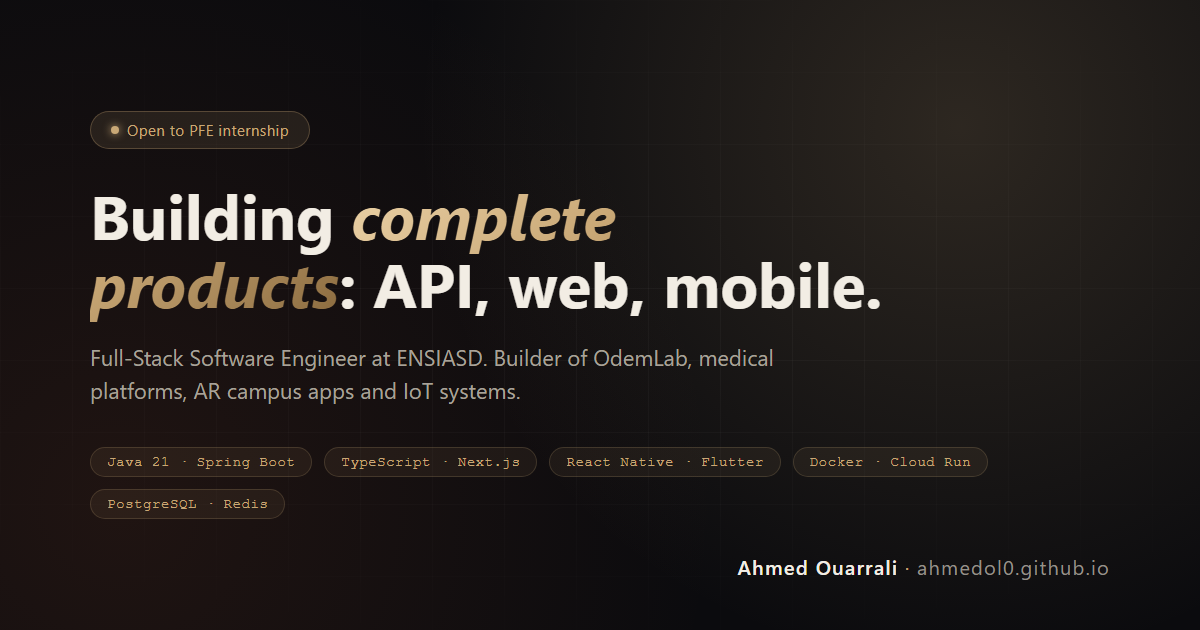
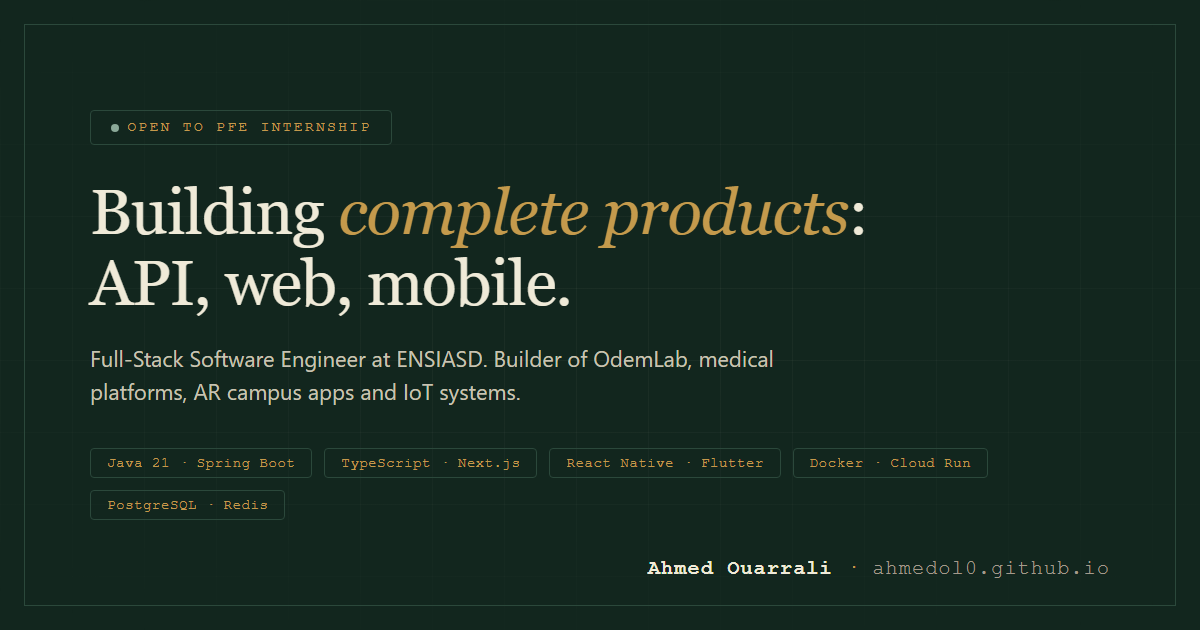
refine(portfolio): walkthrough footnote, inline form errors, dossier OG image
Work: demo links open in a new tab (noopener); per-card walkthrough notes consolidated into one section footnote (12 repetitive strings removed). Experience: stack tags replace duplicated where-lines. Contact: inline per-field errors with browser-localized messages, response-time hint above submit, Sending microcopy, spinner hidden from AT, message maxlength. Docs/OG: README corrected (React 19, EN/FR, asset inventory); og-image rethemed to dossier and regenerated. CSS: dead rules pruned, tag hover scoped to real controls.

diff --git a/src/i18n-data.ts b/src/i18n-data.ts
@@ -8,7 +8,7 @@ export const LANGS: { code: Lang; label: string; aria: string }[] = [
 
 export type ProjectT = {
   title: string; year: string; kind: string; heading: string; lead: string;
-  description: string; result?: string; note?: string; linkLabel?: string; linkHref?: string;
+  description: string; result?: string; linkLabel?: string; linkHref?: string;
 };
 
 export function thumbTitle(p: ProjectT): { pre: string; em: string; post: string } {
@@ -17,7 +17,7 @@ export function thumbTitle(p: ProjectT): { pre: string; em: string; post: string
   return { pre: p.heading.slice(0, i), em: p.lead, post: p.heading.slice(i + 1) };
 }
 
-export type JobT = { when: string; title: string; org: string; where: string; points: string[]; tags: string[] };
+export type JobT = { when: string; title: string; org: string; where?: string; points: string[]; tags: string[] };
 export type EduT = { years: string; title: string; school: string; desc: string };
 
 export type Capability = { title: string; desc: string; details: string };
@@ -32,7 +32,7 @@ export type Dict = {
   whatIDo: { kicker: string; title: string; sub: string; showDetails: string; showLess: string; capabilities: Capability[] };
   howIWork: { kicker: string; title: string; sub: string; steps: ProcessStep[] };
   filters: { all: string; web: string; mobile: string; backend: string; ai: string; iot: string };
-  work: { kicker: string; title: string; sub: string; showLess: string; showFewer: string; filterCount: string; projects: ProjectT[] };
+  work: { kicker: string; title: string; sub: string; showLess: string; showFewer: string; filterCount: string; walkthroughNote: string; projects: ProjectT[] };
   exp: { kicker: string; title: string; jobs: JobT[] };
   edu: { kicker: string; title: string; sub: string; entries: EduT[] };
   behind: { kicker: string; title: string; sub: string; categories: TechCategory[] };
@@ -103,32 +103,27 @@ const en: Dict = {
     kicker: 'Selected work', title: 'Systems that run in production, not demos that run once.',
     sub: 'More than six builds across web, mobile, backend, AI and IoT. Each one deployed, used, or graded.',
     showLess: 'show less', showFewer: 'Show fewer tags', filterCount: 'Showing {count} of {total} projects',
+    walkthroughNote: 'Live demos, private repositories and hardware: code walkthroughs and guided demos available on request.',
     projects: [
       { title: 'OdemLab: AI skincare e-commerce', year: 'Flagship', kind: 'Team of 4 · Private repo', heading: 'OdemLab', lead: 'd',
         description: 'A complete online skincare store with AI skin analysis, three payment methods (Stripe, CMI, cash-on-delivery), and trilingual FR/EN/AR support. Customers browse, scan their skin, and pay. All in one flow.',
         result: '810 automated tests, 93 schema migrations, 3 payment integrations. Deployed to Cloud Run with zero-downtime promotion.',
-        note: 'Private repository: live demo and code walkthrough on request.',
         linkLabel: 'Open the live store', linkHref: 'https://odemlab-frontend-fne55ek37q-no.a.run.app/fr' },
       { title: 'Medical appointment platform', year: '2025', kind: 'Internship · Full-stack', heading: 'Medical', lead: 'e',
         description: 'A clinic management platform where patients book appointments online and doctors manage schedules, patients, and generate PDF reports.',
-        result: 'Reduced scheduling from 15min phone calls to 2-minute online booking.',
-        note: 'Internship project — code walkthrough and live demo on request.' },
+        result: 'Reduced scheduling from 15min phone calls to 2-minute online booking.'},
       { title: 'FitTrack: training platform', year: '2025', kind: 'Team of 2 · Full-stack', heading: 'FitTrack', lead: 'i',
         description: 'A fitness web app where users create training programs, track sessions in real time, and view BMI and calorie stats. Admin panel with 38-exercise library.',
-        result: 'Full admin moderation pipeline across 38 exercises with video demos.',
-        note: 'Academic project — code walkthrough and live demo on request.' },
+        result: 'Full admin moderation pipeline across 38 exercises with video demos.'},
       { title: 'Smart Campus Companion', year: '2026', kind: 'Team of 4 · Flutter', heading: 'Campus', lead: 'a',
         description: 'A Flutter campus app where students scan QR codes on classroom doors for instant room info and AR visualization. Professors reserve rooms and post announcements.',
-        result: 'QR-to-room info in one scan. Real-time sync across 7 collections for 3 campus roles.',
-        note: 'Academic project — code walkthrough and live demo on request.' },
+        result: 'QR-to-room info in one scan. Real-time sync across 7 collections for 3 campus roles.'},
       { title: 'SmartSummarizer', year: '2025', kind: 'Team of 4 · NLP', heading: 'Summarizer', lead: 'u',
         description: 'An AI platform that transforms lecture PDFs into study tools. Summaries, audio, quizzes, and mind maps. Using CamemBERT and Groq.',
-        result: '9.9s average processing. 8.4/10 quality score from 30 students.',
-        note: 'Academic project — code walkthrough and live demo on request.' },
+        result: '9.9s average processing. 8.4/10 quality score from 30 students.'},
       { title: 'Cane counting system', year: '2024 · DUT thesis', kind: 'Embedded · Final-year project', heading: 'IoT', lead: 'T',
         description: 'An ESP8266-based counting system using a laser sensor to count canes on a production line, with real-time OLED display and Wi-Fi dashboard.',
-        result: '98%+ accuracy. 3D-printed production-ready enclosure.',
-        note: 'Final-year project — code walkthrough and hardware demo on request.' },
+        result: '98%+ accuracy. 3D-printed production-ready enclosure.'},
     ],
   },
   exp: {
@@ -137,13 +132,13 @@ const en: Dict = {
       { when: 'JUN 2026 – SEP 2026 · AGADIR, ON-SITE', title: 'End-of-year project (PFA): Full-Stack Developer', org: 'Zorium, Technoparc Agadir', where: 'OdemLab platform · team of four',
         tags: ['Spring Boot', 'Next.js', 'PostgreSQL', 'Cloud Run'],
         points: ['Owned backend business modules: orders, products, payments, auth, GDPR', 'Hardened the money paths: server-side pricing, idempotent checkout, audited order lifecycle', 'Shipped to Cloud Run: zero-traffic deploy, health check, promotion, auto-rollback on failure'] },
-      { when: 'JUL 2025 – SEP 2025 · REMOTE', title: 'Full-Stack Developer Intern', org: 'MOUSSA SOFT · Agadir', where: 'Laravel · MySQL · Bootstrap',
+      { when: 'JUL 2025 – SEP 2025 · REMOTE', title: 'Full-Stack Developer Intern', org: 'MOUSSA SOFT · Agadir',
         tags: ['Laravel', 'MySQL', 'Bootstrap'],
         points: ['Built MediCare: patient-doctor booking, appointment scheduling, PDF report generation, Chart.js dashboards'] },
-      { when: 'JUN 2024 – JUN 2024 · AGADIR, ON-SITE', title: 'End-of-study internship (DUT): Embedded Developer', org: 'MOUSSA SOFT · Agadir', where: 'ESP8266 · VL53L0X · PHP · MySQL',
+      { when: 'JUN 2024 – JUN 2024 · AGADIR, ON-SITE', title: 'End-of-study internship (DUT): Embedded Developer', org: 'MOUSSA SOFT · Agadir',
         tags: ['ESP8266', 'VL53L0X', 'PHP', 'MySQL'],
         points: ['Built a cane counting system with ESP8266 + laser sensor, OLED display, Wi-Fi to PHP/MySQL dashboard', 'Designed 3D-printed enclosures in SolidWorks, fabricated with Creality CR-10 Max'] },
-      { when: 'JUN 2023 – AUG 2023', title: 'QA Automation Intern', org: 'Univers Architecture Maroc', where: 'Python · Selenium WebDriver · Page Objects',
+      { when: 'JUN 2023 – AUG 2023', title: 'QA Automation Intern', org: 'Univers Architecture Maroc',
         tags: ['Python', 'Selenium', 'Page Objects'],
         points: ['Replaced a manual campaign with automated non-regression suites, one change point per UI change'] },
     ],
@@ -180,7 +175,7 @@ const en: Dict = {
     kicker: 'Contact', title: 'Let\'s build something solid.',
     sub: 'Looking for a ', subEm: 'PFE internship', subEnd: ', backend or full-stack, Morocco or remote. I answer fast.',
     name: 'Your name', namePh: 'Your full name', email: 'Email address', emailPh: 'you@company.com',
-    msg: 'Project details', msgPh: 'What are you building, and when?', send: 'Send message', sending: '...',
+    msg: 'Project details', msgPh: 'What are you building, and when?', send: 'Send message', sending: 'Sending…',
     success: '\u2713 Message sent. I\'ll get back to you soon.', error: '\u2717 Something went wrong. Try emailing me directly.',
     mailto: '\u2713 Your email app is opening with the message ready to send.',
     respondTime: 'Typically respond within 24 hours',
@@ -236,32 +231,27 @@ const fr: Dict = {
     kicker: 'Projets', title: 'Des syst\u00e8mes qui tournent en production, pas des d\u00e9mos qui tournent une fois.',
     sub: 'Plus de six r\u00e9alisations web, mobile, backend, IA et IoT. Chacune d\u00e9ploy\u00e9e, utilis\u00e9e ou \u00e9valu\u00e9e.',
     showLess: 'voir moins', showFewer: 'Afficher moins', filterCount: '{count} projets sur {total} affichés',
+    walkthroughNote: 'D\u00e9mos en direct, d\u00e9p\u00f4ts priv\u00e9s et mat\u00e9riel : revues de code et d\u00e9monstrations guid\u00e9es sur demande.',
     projects: [
       { title: 'OdemLab: e-commerce cosm\u00e9tique IA', year: 'Vitrine', kind: '\u00c9quipe de 4 \u00b7 D\u00e9p\u00f4t priv\u00e9', heading: 'OdemLab', lead: 'd',
         description: 'Boutique cosm\u00e9tique en ligne avec analyse IA de la peau, trois m\u00e9thodes de paiement (Stripe, CMI, contre-remboursement) et support trilingue FR/EN/AR.',
         result: '810 tests automatis\u00e9s, 93 migrations, 3 int\u00e9grations paiement. D\u00e9ploy\u00e9 sur Cloud Run.',
-        note: 'D\u00e9p\u00f4t priv\u00e9: d\u00e9mo en direct et revue de code sur demande.',
         linkLabel: 'Ouvrir la boutique', linkHref: 'https://odemlab-frontend-fne55ek37q-no.a.run.app/fr' },
       { title: 'Plateforme de rendez-vous m\u00e9dicaux', year: '2025', kind: 'Stage \u00b7 Full-stack', heading: 'M\u00e9dical', lead: 'e',
         description: 'Plateforme de gestion de cabinet m\u00e9dical o\u00f9 les patients prennent rendez-vous en ligne et les m\u00e9decins g\u00e8rent leurs plannings et g\u00e9n\u00e8rent des rapports PDF.',
-        result: 'R\u00e9duction de 15min d\u2019appel \u00e0 2 minutes de r\u00e9servation en ligne.',
-        note: 'Projet de stage — revue de code et d\u00e9mo en direct sur demande.' },
+        result: 'R\u00e9duction de 15min d\u2019appel \u00e0 2 minutes de r\u00e9servation en ligne.'},
       { title: 'FitTrack: suivi sportif', year: '2025', kind: '\u00c9quipe de 2 \u00b7 Full-stack', heading: 'FitTrack', lead: 'i',
         description: 'Application web fitness pour cr\u00e9er des programmes d\u2019entra\u00eEnement, suivre les s\u00e9ances en temps r\u00e9el et visualiser IMC et calories.',
-        result: 'Pipeline complet de mod\u00e9ration admin pour 38 exercices avec vid\u00e9os.',
-        note: 'Projet acad\u00e9mique — revue de code et d\u00e9mo en direct sur demande.' },
+        result: 'Pipeline complet de mod\u00e9ration admin pour 38 exercices avec vid\u00e9os.'},
       { title: 'Smart Campus Companion', year: '2026', kind: '\u00c9quipe de 4 \u00b7 Flutter', heading: 'Campus', lead: 'a',
         description: 'Application Flutter de gestion de campus o\u00f9 les \u00e9tudiants scannent des QR codes pour obtenir les informations de salle instantan\u00e9ment avec visualisation AR.',
-        result: 'Info salle en un scan QR. Synchronisation temps r\u00e9el pour 7 collections.',
-        note: 'Projet acad\u00e9mique — revue de code et d\u00e9mo en direct sur demande.' },
+        result: 'Info salle en un scan QR. Synchronisation temps r\u00e9el pour 7 collections.'},
       { title: 'SmartSummarizer', year: '2025', kind: '\u00c9quipe de 4 \u00b7 NLP', heading: 'R\u00e9sumeur', lead: 'u',
         description: 'Plateforme IA qui transforme les PDF de cours en outils d\u2019\u00e9tude. R\u00e9sum\u00e9s, audio, quiz et cartes mentales.',
-        result: '9.9s de traitement moyen. Score 8.4/10 sur 30 \u00e9tudiants.',
-        note: 'Projet acad\u00e9mique — revue de code et d\u00e9mo en direct sur demande.' },
+        result: '9.9s de traitement moyen. Score 8.4/10 sur 30 \u00e9tudiants.'},
       { title: 'Syst\u00e8me de comptage de cannes', year: '2024 \u00b7 PFE DUT', kind: 'Embarqu\u00e9 \u00b7 Projet de fin', heading: 'IoT', lead: 'T',
         description: 'Syst\u00e8me de comptage bas\u00e9 sur ESP8266 utilisant un capteur laser pour compter les cannes sur une ligne de production, avec affichage OLED et tableau de bord Wi-Fi.',
-        result: '98%+ de pr\u00e9cision. Bo\u00eetier 3D imprim\u00e9.',
-        note: 'Projet de fin d\u2019\u00e9tudes — revue de code et d\u00e9mo mat\u00e9rielle sur demande.' },
+        result: '98%+ de pr\u00e9cision. Bo\u00eetier 3D imprim\u00e9.'},
     ],
   },
   exp: {
@@ -270,13 +260,13 @@ const fr: Dict = {
       { when: 'JUIN 2026 \u2013 SEPT. 2026 \u00b7 AGADIR, SUR SITE', title: 'Projet de fin d\u2019ann\u00e9e (PFA): D\u00e9veloppeur Full-Stack', org: 'Zorium, Technoparc Agadir', where: 'Plateforme OdemLab \u00b7 \u00e9quipe de quatre',
         tags: ['Spring Boot', 'Next.js', 'PostgreSQL', 'Cloud Run'],
         points: ['Modules m\u00e9tier backend : commandes, produits, paiements, auth, RGPD', 'Chemins mon\u00e9taires fiabilis\u00e9s : tarification serveur, checkout idempotent, cycle audité', 'Livraison Cloud Run : d\u00e9ploiement sans trafic, health check, promotion, rollback auto'] },
-      { when: 'JUIL. 2025 \u2013 SEPT. 2025 \u00b7 DISTANCIEL', title: 'Stagiaire D\u00e9veloppeur Full-Stack', org: 'MOUSSA SOFT \u00b7 Agadir', where: 'Laravel \u00b7 MySQL \u00b7 Bootstrap',
+      { when: 'JUIL. 2025 \u2013 SEPT. 2025 \u00b7 DISTANCIEL', title: 'Stagiaire D\u00e9veloppeur Full-Stack', org: 'MOUSSA SOFT \u00b7 Agadir',
         tags: ['Laravel', 'MySQL', 'Bootstrap'],
         points: ['MediCare : r\u00e9servation patients-m\u00e9decins, planning, g\u00e9n\u00e9ration de rapports PDF, tableaux Chart.js'] },
-      { when: 'JUIN 2024 \u2013 JUIN 2024 \u00b7 AGADIR, SUR SITE', title: 'Stage de fin d\u2019\u00e9tudes (DUT): D\u00e9veloppeur Embarqu\u00e9', org: 'MOUSSA SOFT \u00b7 Agadir', where: 'ESP8266 \u00b7 VL53L0X \u00b7 PHP \u00b7 MySQL',
+      { when: 'JUIN 2024 \u2013 JUIN 2024 \u00b7 AGADIR, SUR SITE', title: 'Stage de fin d\u2019\u00e9tudes (DUT): D\u00e9veloppeur Embarqu\u00e9', org: 'MOUSSA SOFT \u00b7 Agadir',
         tags: ['ESP8266', 'VL53L0X', 'PHP', 'MySQL'],
         points: ['Syst\u00e8me de comptage de cannes avec ESP8266 + capteur laser, \u00e9cran OLED, Wi-Fi vers tableau PHP/MySQL', 'Bo\u00eetiers 3D imprim\u00e9s con\u00e7us dans SolidWorks, fabriqu\u00e9s avec Creality CR-10 Max'] },
-      { when: 'JUIN 2023 \u2013 AO\u00fbT 2023', title: 'Stagiaire QA Automatisation', org: 'Univers Architecture Maroc', where: 'Python \u00b7 Selenium WebDriver \u00b7 Page Objects',
+      { when: 'JUIN 2023 \u2013 AO\u00fbT 2023', title: 'Stagiaire QA Automatisation', org: 'Univers Architecture Maroc',
         tags: ['Python', 'Selenium', 'Page Objects'],
         points: ['Campagne manuelle remplac\u00e9e par des suites automatis\u00e9es, un point de changement par \u00e9cran'] },
     ],
@@ -313,7 +303,7 @@ const fr: Dict = {
     kicker: 'Contact', title: 'Construisons quelque chose de solide.',
     sub: 'Je cherche un ', subEm: 'stage PFE', subEnd: ', backend ou full-stack, Maroc ou distanciel. Je r\u00e9ponds vite.',
     name: 'Votre nom', namePh: 'Votre nom complet', email: 'Adresse e-mail', emailPh: 'vous@entreprise.com',
-    msg: 'D\u00e9tails du projet', msgPh: 'Que construisez-vous, et pour quand ?', send: 'Envoyer', sending: '...',
+    msg: 'D\u00e9tails du projet', msgPh: 'Que construisez-vous, et pour quand ?', send: 'Envoyer', sending: 'Envoi…',
     success: '\u2713 Message envoy\u00e9. Je vous r\u00e9ponds vite.', error: '\u2717 Une erreur s\u2019est produite. \u00c9crivez-moi directement.',
     mailto: '\u2713 Votre application e-mail s\u2019ouvre avec le message pr\u00eat \u00e0 envoyer.',
     respondTime: 'Je r\u00e9ponds g\u00e9n\u00e9ralement sous 24 heures',

diff --git a/scripts/og-image.html b/scripts/og-image.html
@@ -6,27 +6,25 @@
   * { margin: 0; padding: 0; box-sizing: border-box; }
   body {
     width: 1200px; height: 630px;
-    background: #0b0b0e;
-    font-family: 'Segoe UI', system-ui, -apple-system, sans-serif;
-    color: #f2ede4;
+    background: #12261E;
+    font-family: Georgia, 'Times New Roman', serif;
+    color: #EFEAD8;
     display: flex;
     overflow: hidden;
     position: relative;
   }
-  body::before {
-    content: '';
-    position: absolute; inset: 0;
-    background:
-      radial-gradient(circle at 80% 20%, rgba(201,168,118,.18), transparent 50%),
-      radial-gradient(circle at 10% 80%, rgba(180,85,45,.12), transparent 50%);
-  }
   .grid {
     position: absolute; inset: 0;
     background-image:
-      linear-gradient(rgba(255,255,255,.03) 1px, transparent 1px),
-      linear-gradient(90deg, rgba(255,255,255,.03) 1px, transparent 1px);
+      linear-gradient(rgba(239,234,216,.04) 1px, transparent 1px),
+      linear-gradient(90deg, rgba(239,234,216,.04) 1px, transparent 1px);
     background-size: 72px 72px;
     mask-image: radial-gradient(ellipse 80% 60% at 50% 50%, #000 20%, transparent 100%);
+  }
+  .frame {
+    position: absolute; inset: 24px;
+    border: 1px solid #2B483B;
+    pointer-events: none;
   }
   .content {
     position: relative; z-index: 1;
@@ -37,13 +35,15 @@
   }
   .badge {
     display: inline-flex; align-items: center; gap: 8px;
-    background: rgba(201,168,118,.12);
-    border: 1px solid rgba(201,168,118,.3);
-    border-radius: 999px;
+    background: transparent;
+    border: 1px solid #2B483B;
+    border-radius: 4px;
     padding: 8px 20px;
     font-size: 15px;
-    color: #c9a876;
-    letter-spacing: .03em;
+    font-family: 'Courier New', monospace;
+    text-transform: uppercase;
+    letter-spacing: .14em;
+    color: #C49A4C;
     width: fit-content;
     margin-bottom: 32px;
   }
@@ -51,25 +51,24 @@
     content: '';
     width: 8px; height: 8px;
     border-radius: 50%;
-    background: #c9a876;
-    box-shadow: 0 0 8px #c9a876;
+    background: #8AA898;
   }
   h1 {
-    font-size: 62px;
-    font-weight: 700;
+    font-size: 64px;
+    font-weight: 500;
     line-height: 1.1;
     max-width: 800px;
     margin-bottom: 24px;
+    letter-spacing: -.015em;
   }
   h1 em {
     font-style: italic;
-    background: linear-gradient(135deg, #ecd3a8, #c9a876, #8a6a3e);
-    -webkit-background-clip: text;
-    -webkit-text-fill-color: transparent;
+    color: #C49A4C;
   }
   .sub {
     font-size: 22px;
-    color: #a8a29a;
+    font-family: system-ui, -apple-system, sans-serif;
+    color: #C8C3B3;
     max-width: 700px;
     line-height: 1.5;
     margin-bottom: 40px;
@@ -80,10 +79,10 @@
   .tech span {
     font-size: 14px;
     font-family: 'Courier New', monospace;
-    color: #c9a876;
-    background: rgba(201,168,118,.08);
-    border: 1px solid rgba(201,168,118,.2);
-    border-radius: 999px;
+    color: #C49A4C;
+    background: transparent;
+    border: 1px solid #2B483B;
+    border-radius: 4px;
     padding: 6px 16px;
     letter-spacing: .04em;
   }
@@ -91,18 +90,20 @@
     position: absolute;
     bottom: 50px; right: 90px;
     font-size: 20px;
-    color: #969189;
+    font-family: 'Courier New', monospace;
+    color: #A39A8B;
     letter-spacing: .06em;
   }
   .name strong {
-    color: #f2ede4;
+    color: #EFEAD8;
     font-weight: 600;
   }
-  .dot { color: #c9a876; }
+  .dot { color: #C49A4C; }
 </style>
 </head>
 <body>
   <div class="grid"></div>
+  <div class="frame"></div>
   <div class="content">
     <div class="badge">Open to PFE internship</div>
     <h1>Building <em>complete products</em>: API, web, mobile.</h1>

diff --git a/src/index.css b/src/index.css
@@ -179,6 +179,7 @@ a:focus-visible,button:focus-visible,input:focus-visible,textarea:focus-visible{
 .tag-more:focus-visible{outline:2px solid var(--gold);outline-offset:3px}
 .result{font-size:.84rem;font-weight:500;color:var(--ink);margin-top:2px;border-left:2px solid var(--gold-deep);padding-left:10px}
 .note{font-size:.78rem;color:var(--faint);font-style:italic}
+.work-footnote{margin-top:20px;max-width:70ch}
 
 /* Back to top */
 #toTop{position:fixed;bottom:28px;right:28px;z-index:65;width:44px;height:44px;border-radius:var(--r);background:var(--card);border:1px solid var(--line);color:var(--muted);font-size:1.1rem;display:flex;align-items:center;justify-content:center;cursor:pointer;opacity:0;transform:translateY(12px);transition:opacity .3s,transform .3s,border-color .25s,color .25s;pointer-events:none}
@@ -304,7 +305,6 @@ html.has-magnetic-cursor,html.has-magnetic-cursor a,html.has-magnetic-cursor but
 
 /* Tag hover */
 .tags span{transition:border-color .2s,color .2s}
-.tags span:hover{color:var(--gold);border-color:var(--gold-deep)}
 
 /* Contact */
 .contact-box{background:var(--card);border:1px solid var(--line);border-radius:var(--r);position:relative;display:grid;grid-template-columns:1fr;gap:24px;padding:12px}
@@ -769,8 +769,6 @@ main{overflow-x:clip}
 .about-layout{display:flex;flex-direction:column;gap:24px}
 .about-main{display:flex;flex-direction:column;gap:16px}
 .about-top{display:flex;align-items:center;gap:16px}
-.about-photo{width:80px;height:80px;border-radius:50%;overflow:hidden;border:1px solid var(--line);flex-shrink:0}
-.about-photo img{width:100%;height:100%;object-fit:cover;display:block}
 .about-identity{display:flex;flex-direction:column;gap:2px}
 .about-name{margin:0;font-size:1.1rem;font-weight:600}
 .about-role{margin:0;font-size:.85rem;color:var(--muted)}

diff --git a/src/components/Work.tsx b/src/components/Work.tsx
@@ -57,11 +57,12 @@ export default function Work() {
           );
         })}
       </div>
+      <p className="note work-footnote">{t.work.walkthroughNote}</p>
     </Section>
   );
 }
 
-function Card({ p, th, i, cardId }: { p: { year: string; kind: string; title: string; description: string; result?: string; note?: string; linkHref?: string; linkLabel?: string }; th: { pre: string; em: string; post: string }; i: number; cardId: string }) {
+function Card({ p, th, i, cardId }: { p: { year: string; kind: string; title: string; description: string; result?: string; linkHref?: string; linkLabel?: string }; th: { pre: string; em: string; post: string }; i: number; cardId: string }) {
   const { t } = useLang();
   const [tagsExpanded, setTagsExpanded] = useState(false);
 
@@ -96,13 +97,11 @@ function Card({ p, th, i, cardId }: { p: { year: string; kind: string; title: st
             </button>
           )}
         </div>
-        <div className="flex items-center gap-3 pt-1">
-          {p.linkHref ? (
-            <a className="btn btn-ghost btn-sm" href={p.linkHref}>{p.linkLabel}<span className="arr">→</span></a>
-          ) : (
-            <span className="note text-[.78rem] italic" style={{ color: 'var(--faint)' }}>{p.note}</span>
-          )}
-        </div>
+        {p.linkHref && (
+          <div className="flex items-center gap-3 pt-1">
+            <a className="btn btn-ghost btn-sm" href={p.linkHref} target="_blank" rel="noopener noreferrer">{p.linkLabel}<span className="arr">→</span></a>
+          </div>
+        )}
       </div>
     </article>
   );

diff --git a/src/components/Contact.tsx b/src/components/Contact.tsx
@@ -4,7 +4,7 @@ import { useLang } from '../i18n-data';
 
 function Spinner() {
   return (
-    <svg className="send-spinner" viewBox="0 0 20 20" style={{ width: 16, height: 16, marginRight: 8, animation: 'spin .8s linear infinite' }}>
+    <svg className="send-spinner" viewBox="0 0 20 20" aria-hidden="true" focusable="false" style={{ width: 16, height: 16, marginRight: 8, animation: 'spin .8s linear infinite' }}>
       <circle cx="10" cy="10" r="8" fill="none" stroke="currentColor" strokeWidth="2" strokeDasharray="32 18" strokeLinecap="round" />
     </svg>
   );
@@ -108,7 +108,7 @@ export default function Contact() {
             {errors.email && <p className="field-error" id="contact-email-err" role="alert">{errors.email}</p>}
           </label>
           <label className="field" htmlFor="contact-message">
-            <textarea id="contact-message" name="message" rows={5} placeholder=" " required disabled={sending} aria-required="true" aria-invalid={!!errors.message} aria-describedby={errors.message ? 'contact-message-err' : undefined} onInput={() => clearError('message')} />
+            <textarea id="contact-message" name="message" rows={5} maxLength={2000} placeholder=" " required disabled={sending} aria-required="true" aria-invalid={!!errors.message} aria-describedby={errors.message ? 'contact-message-err' : undefined} onInput={() => clearError('message')} />
             <span>{t.contact.msg}</span>
             {errors.message && <p className="field-error" id="contact-message-err" role="alert">{errors.message}</p>}
           </label>

diff --git a/src/components/Experience.tsx b/src/components/Experience.tsx
@@ -39,7 +39,7 @@ export function Timeline({ items }: { items: JobT[] }) {
           <div className="job-card">
             <div className="when font-mono-d">{j.when}</div>
             <h3>{j.title} <span>· {j.org}</span></h3>
-            <div className="where">{j.where}</div>
+            {j.where && <div className="where">{j.where}</div>}
             {j.tags.length > 0 && (
               <div className="tags job-tags">
                 {j.tags.map((tag) => (

diff --git a/README.md b/README.md
@@ -1,6 +1,6 @@
 # Portfolio — Ahmed Ouarrali
 
-React 18 + TypeScript + Vite + Tailwind v4. Single-page portfolio, trilingual (EN/FR/AR with RTL), dark/light themes, deploys to GitHub Pages.
+React 19 + TypeScript + Vite + Tailwind v4. Single-page portfolio, bilingual (EN/FR), dark/light themes, deploys to GitHub Pages.
 
 ## Develop
 
@@ -15,4 +15,4 @@ Push to `main` — the `deploy.yml` workflow builds and publishes to Pages autom
 
 ## Assets
 
-`public/assets/` holds `photo.jpg` and `CV_Ahmed_Ouarrali.pdf` (not tracked here — add your own).
+`public/assets/` holds responsive portraits (`photo-240/480.webp` + `.jpg` fallbacks) and `CV_Ahmed_Ouarrali.pdf`. Self-hosted latin variable fonts live in `public/fonts/`.
